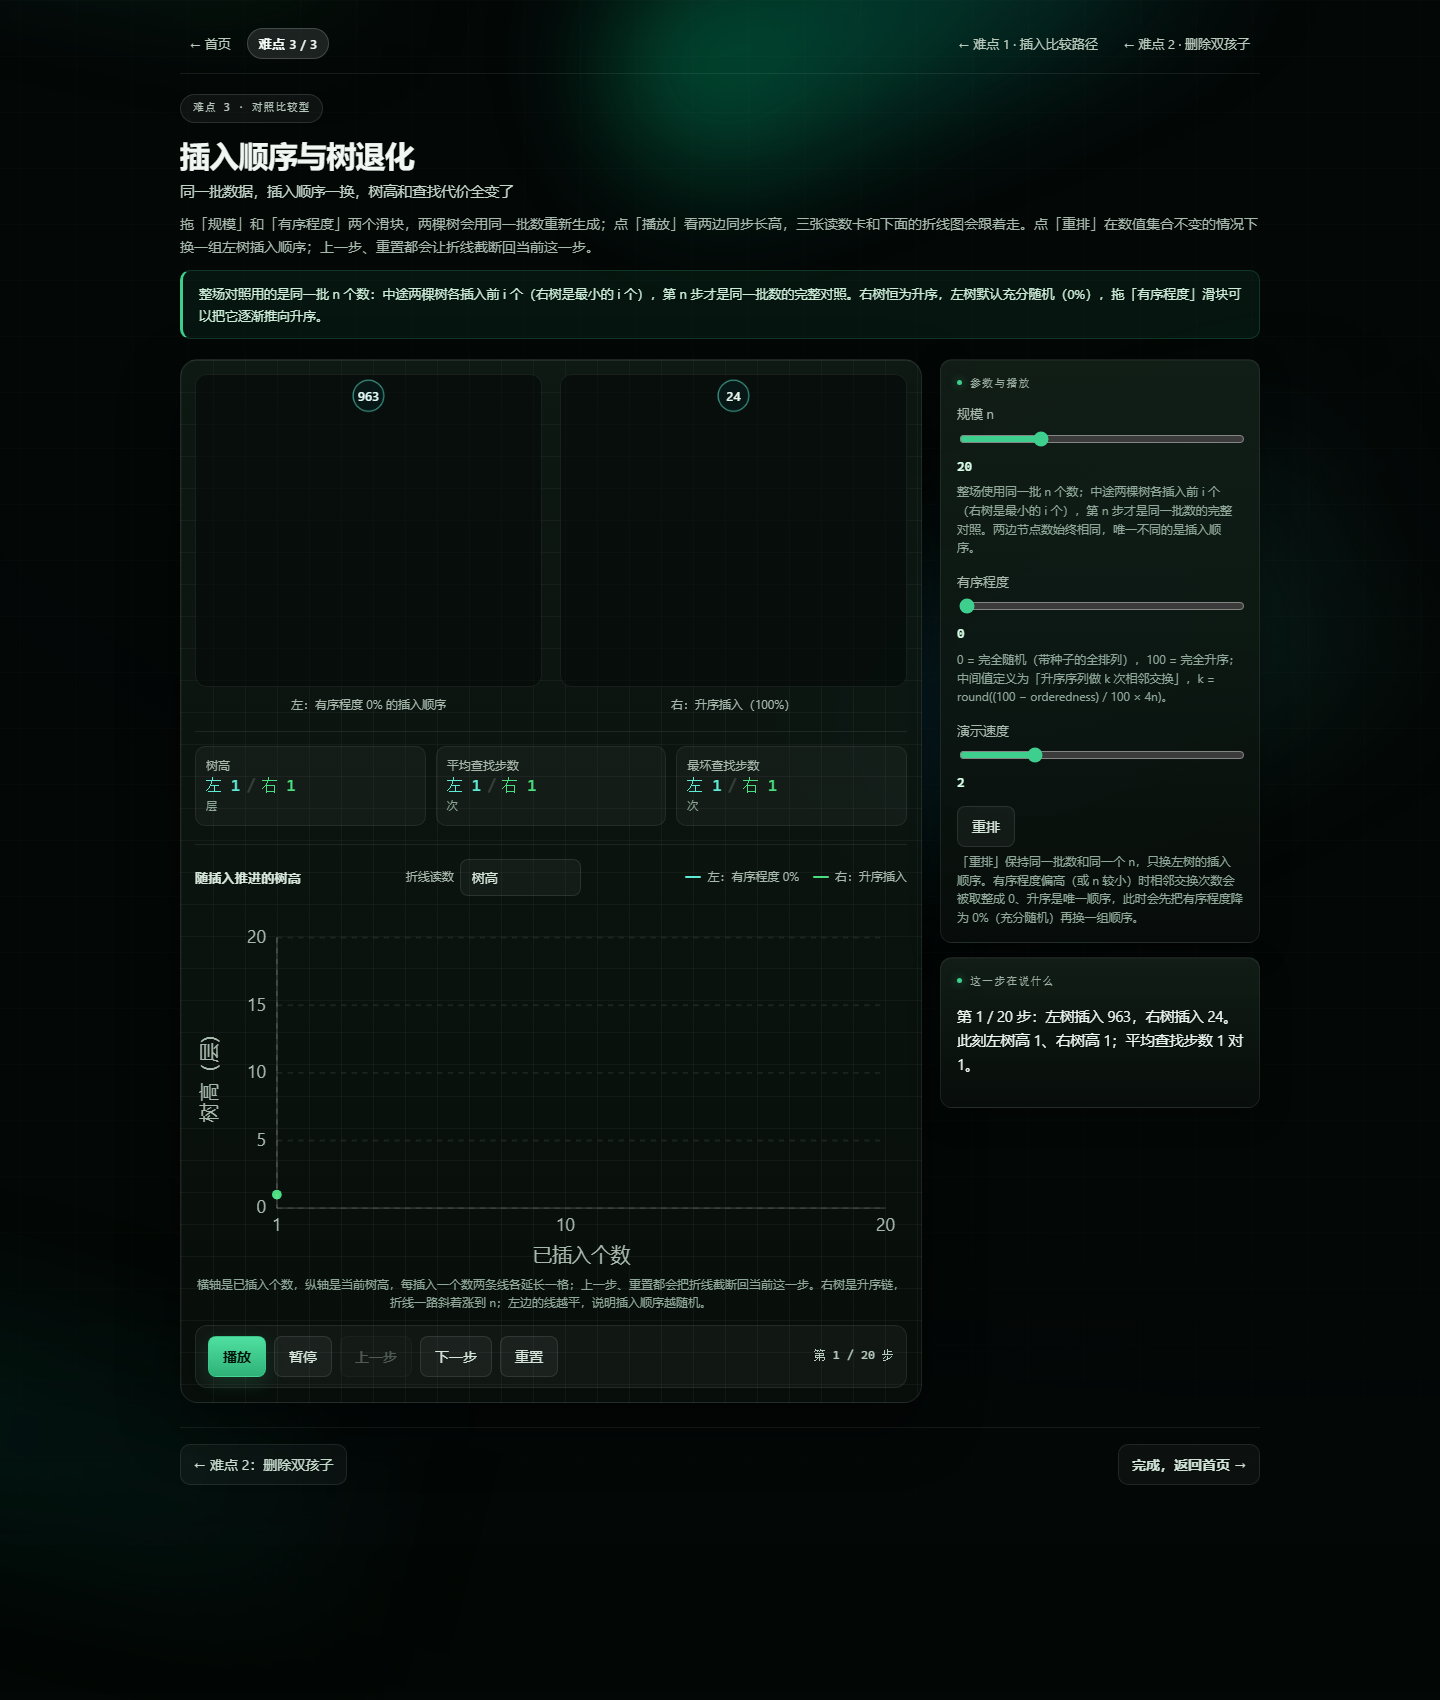
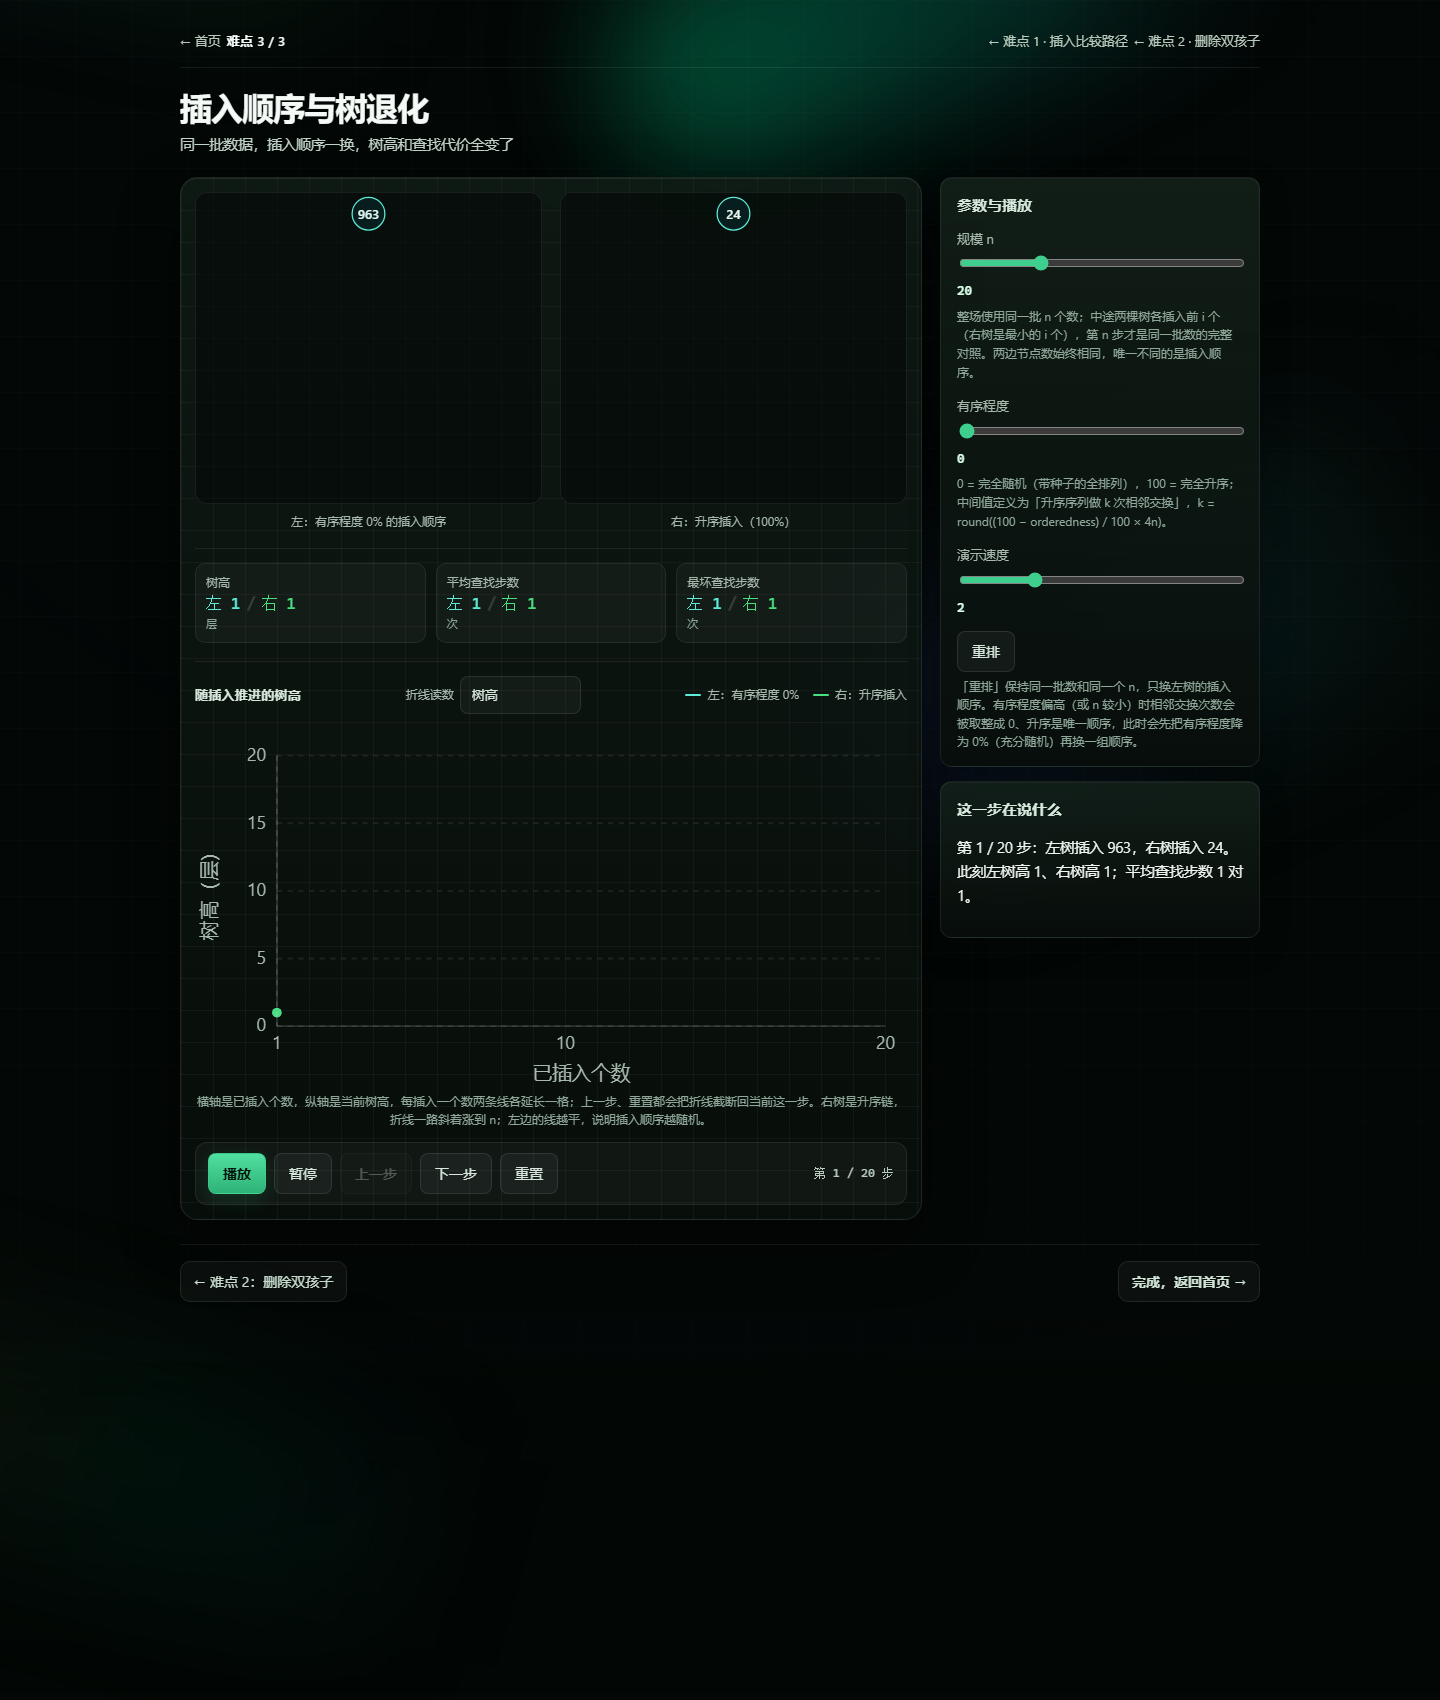
style(matrix): 精简字号层级并移除小标签小字

diff --git a/matrix/matrix.css b/matrix/matrix.css
@@ -1,4 +1,4 @@
-/* matrix.css —— 黑客帝国 / 极光风格皮肤：只覆盖观感，不改结构与交互。
+/* matrix.css —— 黑客帝国 / 极光风格皮肤：只覆盖观感，不改结构与交互。
    先加载 ../src/css/style.css，再加载本文件。
    背景特效为纯 CSS：缓慢漂移的极光色团 + 细网格 + 颗粒，无需 JS。 */
 
@@ -143,28 +143,29 @@ body.matrix .topbar {
 }
 body.matrix .topbar a {
   color: #b9cabd;
-  border: 1px solid transparent;
-  border-radius: 999px;
-  padding: 4px 9px;
-  transition: background-color 0.2s ease, color 0.2s ease, border-color 0.2s ease;
+  border: 0;
+  border-radius: 0;
+  padding: 2px 0;
+  background: none;
+  transition: color 0.2s ease;
 }
 body.matrix .topbar a:hover {
-  color: #eafff2;
-  background: rgba(255, 255, 255, 0.05);
-  border-color: var(--line);
+  color: #f2fff7;
+  background: none;
+  border-color: transparent;
 }
 body.matrix .topbar .crumb {
   color: #cfe7d8;
-  background: rgba(255, 255, 255, 0.04);
-  border: 1px solid var(--line);
-  border-radius: 999px;
-  padding: 4px 11px;
+  background: none;
+  border: 0;
+  border-radius: 0;
+  padding: 2px 0;
   letter-spacing: 0.02em;
 }
 body.matrix .topbar .crumb[aria-current="page"] {
-  color: #f2f8f4;
-  background: rgba(255, 255, 255, 0.1);
-  border-color: rgba(255, 255, 255, 0.18);
+  color: #f4faf6;
+  background: none;
+  border: 0;
 }
 
 /* —— 标题区 —— */
@@ -184,10 +185,12 @@ body.matrix .kicker::before,
 body.matrix .kicker::after { content: none; }
 
 body.matrix .page-head h1 {
-  color: #f0f7f2;
-  letter-spacing: -0.025em;
-  font-weight: 700;
-  text-shadow: 0 1px 0 rgba(0, 0, 0, 0.3);
+  color: #f4faf6;
+  font-size: clamp(26px, 2.4vw, 32px);
+  font-weight: 600;
+  line-height: 1.2;
+  letter-spacing: -0.03em;
+  text-shadow: none;
 }
 body.matrix .page-head .subtitle { color: #c2d4c9; }
 body.matrix .page-head .howto { color: var(--sub); }
@@ -226,24 +229,14 @@ body.matrix .card {
   backdrop-filter: blur(18px) saturate(125%);
 }
 body.matrix .card h2 {
-  color: #9fb2a6;
-  font-family: "JetBrains Mono", "Cascadia Mono", Consolas, monospace;
-  font-size: 11px;
-  font-weight: 500;
-  letter-spacing: 0.1em;
-  text-transform: uppercase;
+  color: #d7e9dd;
+  font-family: inherit;
+  font-size: 15px;
+  font-weight: 600;
+  letter-spacing: 0;
+  text-transform: none;
 }
-body.matrix .card h2::before {
-  content: "";
-  display: inline-block;
-  width: 5px;
-  height: 5px;
-  margin-right: 8px;
-  border-radius: 50%;
-  background: var(--accent);
-  box-shadow: 0 0 8px rgba(62, 207, 142, 0.6);
-  vertical-align: 2px;
-}
+body.matrix .card h2::before { content: none; }
 
 body.matrix .transport {
   background: rgba(255, 255, 255, 0.04);
@@ -339,6 +332,13 @@ body.matrix #panel-interval li.now {
 }
 body.matrix #panel-interval li.now::before { background: var(--accent); }
 
+body.matrix .candidates-line {
+  color: var(--sub);
+  font-size: 13px;
+  margin-top: 8px;
+}
+body.matrix .candidates-line b { color: #e9f7ee; font-weight: 600; }
+
 /* —— SVG 树 —— */
 body.matrix .edge { stroke: rgba(150, 190, 165, 0.28); }
 body.matrix .edge.on-path { stroke: var(--path); }
@@ -370,8 +370,16 @@ body.matrix .card-link:hover {
   border-color: rgba(62, 207, 142, 0.35);
   box-shadow: 0 22px 50px rgba(0, 0, 0, 0.45);
 }
-body.matrix .card-link h2 { color: #f0f7f2; }
+body.matrix .card-link h2 {
+  color: #f4faf6;
+  font-size: 18px;
+  font-weight: 600;
+  line-height: 1.35;
+  letter-spacing: -0.02em;
+}
 body.matrix .card-link h2::before { content: none; }
+
+body.matrix .cards + .card h2 { font-size: 16px; }
 body.matrix .card-link p { color: var(--sub); }
 body.matrix .card-link .type {
   background: rgba(62, 207, 142, 0.08);

diff --git a/matrix/index.html b/matrix/index.html
@@ -13,31 +13,26 @@
 <div class="aurora" aria-hidden="true"><span class="a1"></span><span class="a2"></span><span class="a3"></span><span class="a4"></span></div>
   <main class="wrap">
     <header class="page-head">
-      <span class="kicker">Web 前端开发 · 课程项目</span>
       <h1>二叉搜索树：有序性是怎么被维护的</h1>
       <p class="subtitle">三个难点，三种交互，串成一条学习路径：路径决定位置 → 删除不动规则 → 顺序决定形状。</p>
-      <p class="howto">建议按 1 → 2 → 3 的顺序看。每一页都可以暂停、单步、重置。</p>
       <p><a class="cta" href="d1.html">开始：难点 1 · 插入比较路径 →</a></p>
       <p id="progress" class="progress-note" hidden></p>
     </header>
 
     <div class="cards">
       <a class="card-link" href="d1.html">
-        <span class="type">参数探索型 · 约 2 分钟</span>
         <h2>① 插入时的比较路径</h2>
         <p>拖动插入值，看区间怎么收窄、候选位置怎么从 8 个掉到 1 个——路径唯一，位置就被确定了。</p>
         <span class="go">进入难点 1</span>
       </a>
 
       <a class="card-link" href="d2.html">
-        <span class="type">步进推演型 + 操作判定 · 约 4 分钟</span>
         <h2>② 删除双孩子：为什么用后继替换</h2>
         <p>一步一步走：进右子树、一路向左、摘下后继、挂到被删位置。中途要你选候选，选错当场演示后果。</p>
         <span class="go">进入难点 2</span>
       </a>
 
       <a class="card-link" href="d3.html">
-        <span class="type">对照比较型 · 约 3 分钟</span>
         <h2>③ 插入顺序与树退化</h2>
         <p>同一批数据，两棵树同步长高。随机顺序和升序插入，树高和查找步数差多少，一眼看出来。</p>
         <span class="go">进入难点 3</span>
@@ -48,7 +43,6 @@
       <h2>这个站点在讲什么</h2>
       <p>二叉搜索树只有一条规则：左边全小、右边全大。这条规则是局部的，但它保证了一件全局的事——中序遍历一定递增。</p>
       <p>于是三个难点其实是同一个问题的三个侧面：<b>插入</b>把新值按比较路径放到唯一的位置；<b>删除</b>把节点摘掉，却要让这条规则继续成立；<b>插入顺序</b>不影响规则，但决定了这棵树好不好用。</p>
-      <p class="hint">知识内容全部在 <code>data/</code> 下的 JSON 里，页面只负责渲染与交互。</p>
     </section>
 
     <footer class="site-footer">
@@ -56,7 +50,6 @@
       <a href="../docs/演示脚本.md">演示脚本</a>
       <a href="../README.md">README</a>
       <a href="https://echo33550336.github.io/web-frontend-bst/" target="_blank" rel="noopener">在线访问（GitHub Pages）</a>
-      <span class="who">Web 前端开发课程项目 · 张格靓</span>
     </footer>
   </main>
   <script src="../src/js/common.js"></script>

diff --git a/matrix/d1.html b/matrix/d1.html
@@ -1,4 +1,4 @@
-<!DOCTYPE html>
+<!DOCTYPE html>
 <html lang="zh-CN">
 <head>
   <meta charset="utf-8">
@@ -21,10 +21,8 @@
     </nav>
 
     <header class="page-head">
-      <span class="kicker">难点 1 · 参数探索型</span>
       <h1 id="page-title">插入时的比较路径</h1>
       <p class="subtitle" id="page-subtitle">每比较一次，可能的位置就少一半</p>
-      <p class="howto" id="page-howto">拖动下面的滑块改动「待插入值」，树上的比较路径、区间标注、候选位置计数会实时重算。</p>
     </header>
 
     <div class="layout">
@@ -53,7 +51,7 @@
         <div class="card">
           <h2 id="card-interval-title">允许区间</h2>
           <ul id="panel-interval" aria-live="polite"></ul>
-          <p class="hint"><span id="candidates-label">候选位置</span>：<b id="panel-candidates" aria-live="polite">—</b> 个</p>
+          <p class="candidates-line"><span id="candidates-label">候选位置</span>：<b id="panel-candidates" aria-live="polite">—</b> 个</p>
         </div>
 
         <div class="card">

diff --git a/matrix/d3.html b/matrix/d3.html
@@ -271,11 +271,8 @@
     </nav>
 
     <header class="page-head">
-      <span class="kicker" id="page-kicker">难点 3 · 对照比较型</span>
       <h1 id="page-title">插入顺序与树退化</h1>
       <p class="subtitle" id="page-subtitle">同一批数据，插入顺序一换，树高和查找代价全变了</p>
-      <p class="howto" id="page-howto">拖「规模」和「有序程度」两个滑块，左右两棵树会按同一批数据重新生成；点「播放」看两边同步长高，下面三个读数跟着变。</p>
-      <p class="status-note" id="page-status"></p>
     </header>
 
     <div class="layout">

diff --git a/matrix/d2.html b/matrix/d2.html
@@ -148,11 +148,8 @@
     </nav>
 
     <header class="page-head">
-      <span class="kicker">难点 2 · 步进推演型</span>
       <h1 id="page-title">删除双孩子节点：为什么用中序后继替换</h1>
       <p class="subtitle" id="page-subtitle">把后继从原位置摘下来，挂到被删节点的位置</p>
-      <p class="howto" id="page-howto">按「下一步」一步一步看指针怎么改；到第 5 步要在 A / B / C 里选一个。</p>
-      <p class="status-note" id="page-status">页面加载中……</p>
     </header>
 
     <div class="layout">
